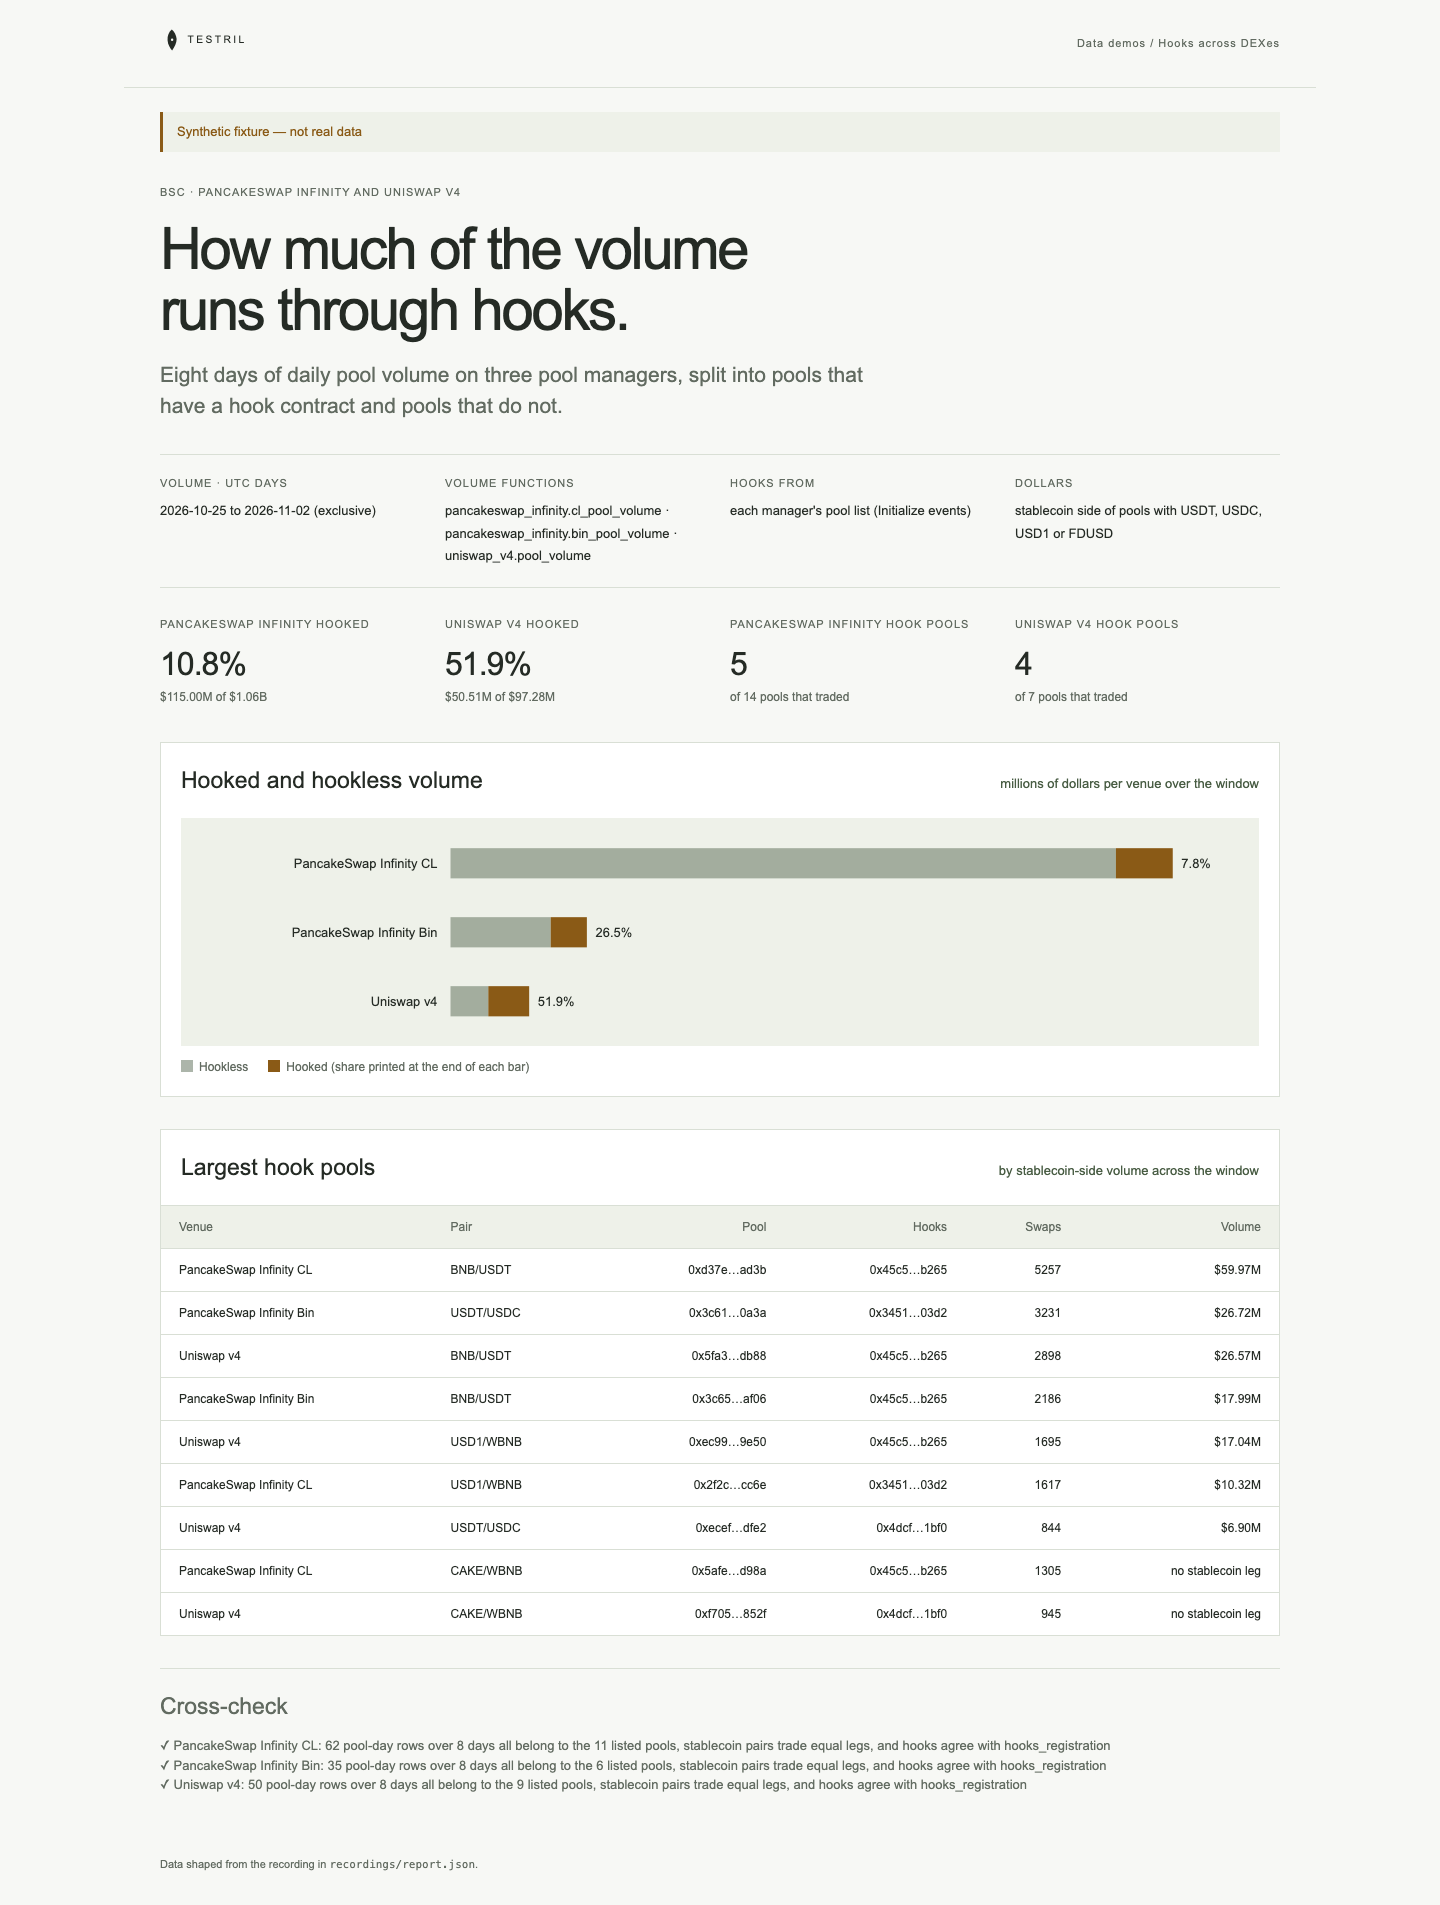
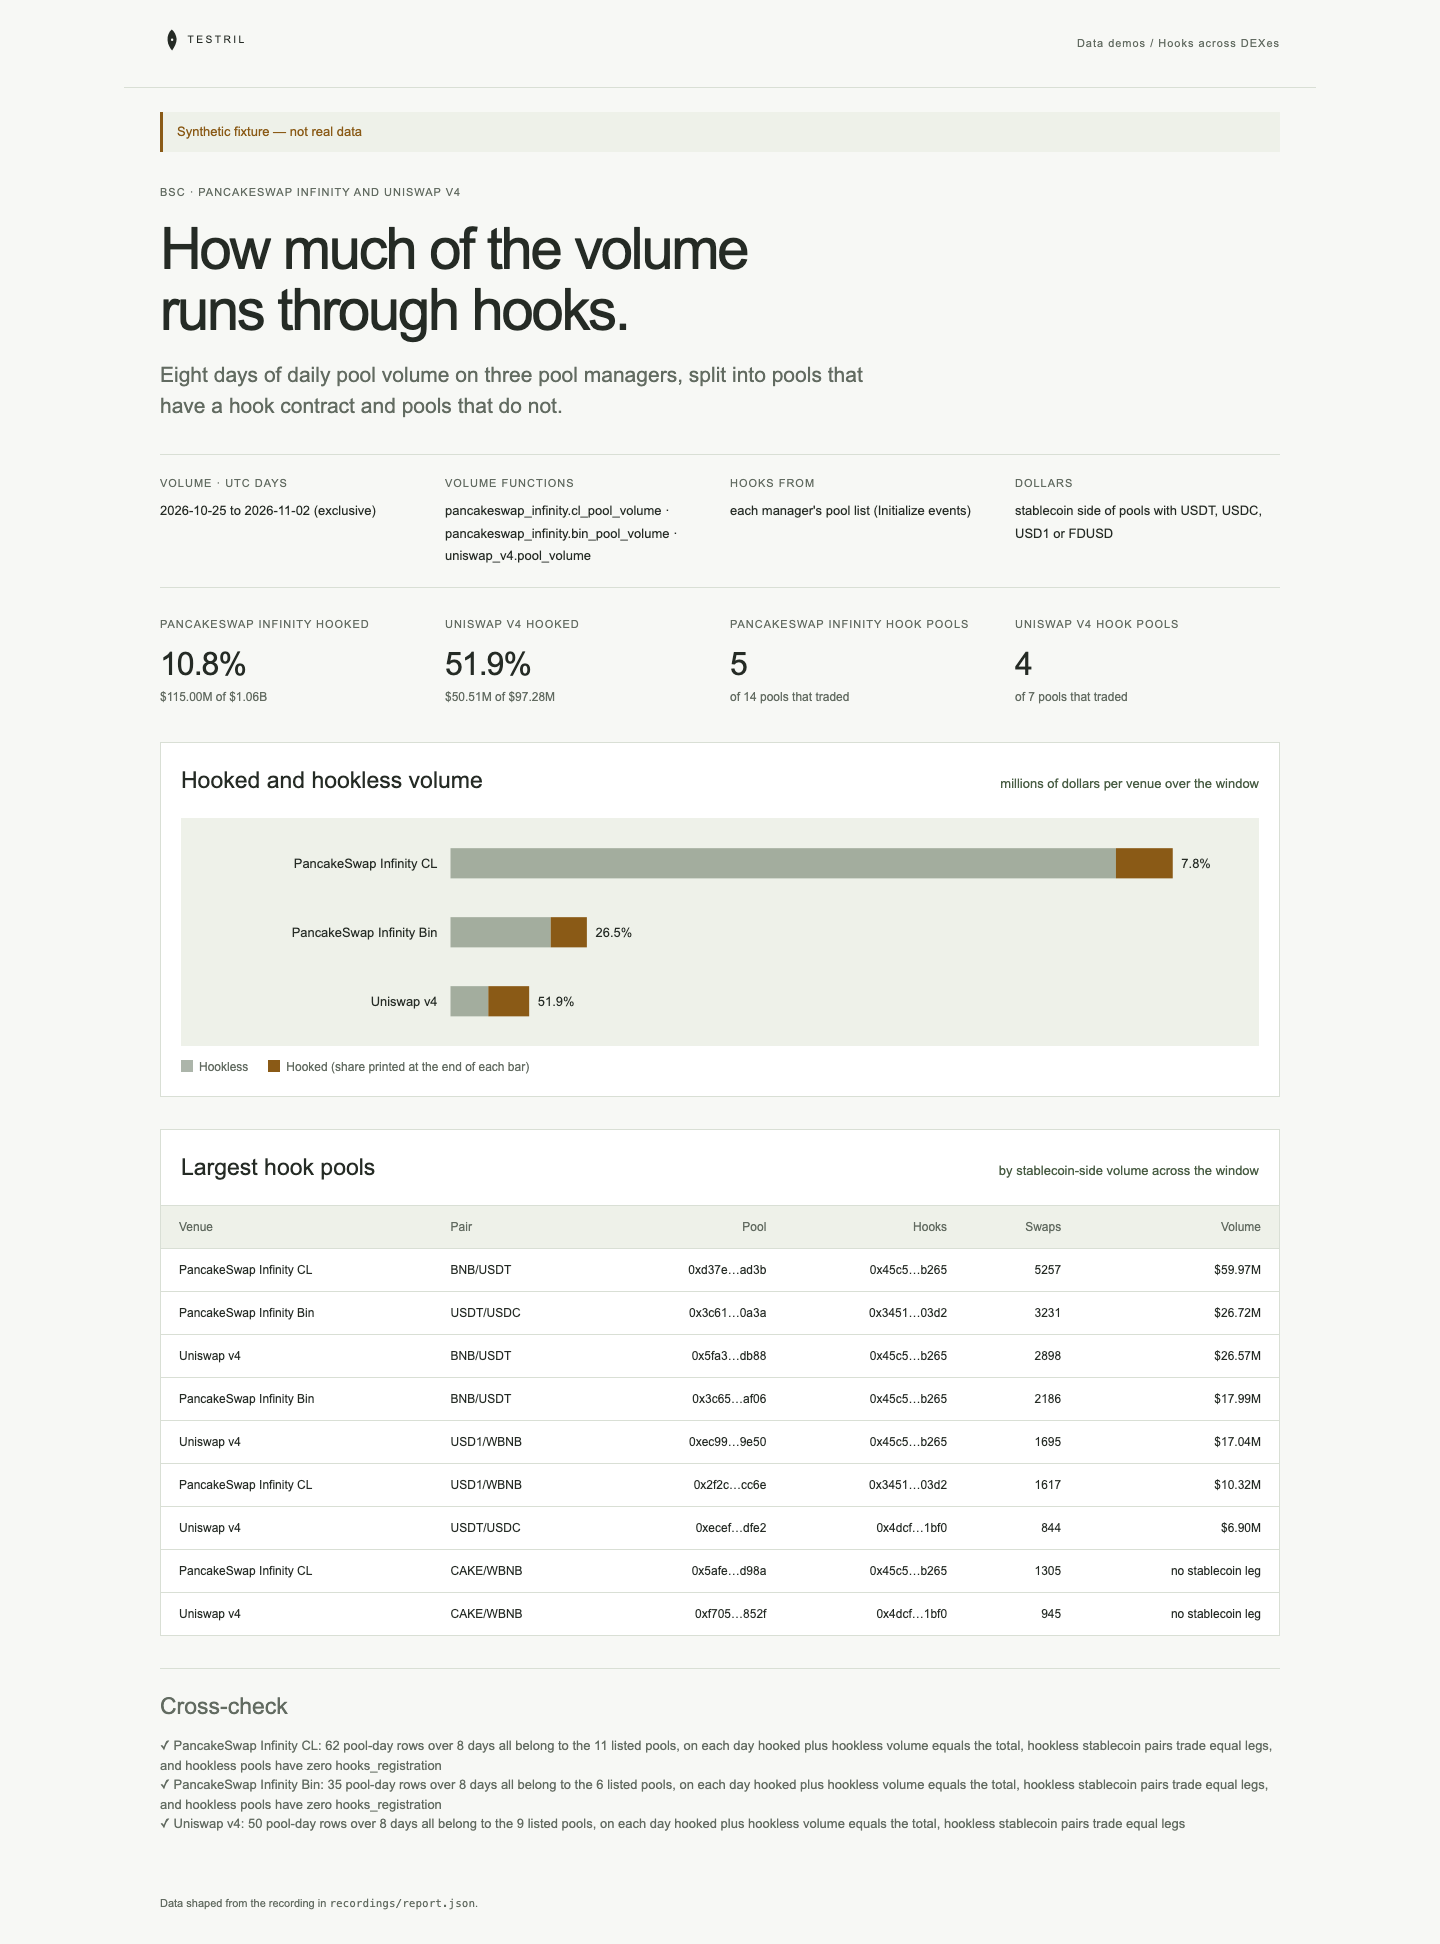
Verify per-day hooked and hookless partition and keep failed checks on the page

diff --git a/demos/hooks-across-dexes/public/app.js b/demos/hooks-across-dexes/public/app.js
@@ -100,9 +100,21 @@ function legend() {
   return node;
 }
 
+function renderChecks(checks) {
+  document
+    .querySelector("#checks")
+    .replaceChildren(
+      ...(checks.ok
+        ? checks.passed.map((text) => element("li", `✓ ${text}`))
+        : [element("li", `✗ ${checks.error}`, "failed")]),
+    );
+}
+
 function render(report) {
   const view = report.view;
   banner(report);
+  renderChecks(report.checks);
+  if (!view) return;
   document.querySelector("#day-window").textContent =
     `${view.dayWindow.from_day} to ${view.dayWindow.to_day} (exclusive)`;
   document
@@ -110,14 +122,14 @@ function render(report) {
     .replaceChildren(
       ...view.dexes.map((dex) =>
         metric(
-          `${dex.dex.toUpperCase()} HOOKED`,
+          `${dex.dex} hooked`,
           dex.hookedShare,
           `${dex.hooked} of ${dex.total}`,
         ),
       ),
       ...view.dexes.map((dex) =>
         metric(
-          `${dex.dex.toUpperCase()} HOOK POOLS`,
+          `${dex.dex} hook pools`,
           String(dex.activeHookedPools),
           `of ${dex.activePools} pools that traded`,
         ),
@@ -140,13 +152,6 @@ function render(report) {
       return row;
     }),
   );
-  document
-    .querySelector("#checks")
-    .replaceChildren(
-      ...(report.checks.ok
-        ? report.checks.passed.map((text) => element("li", `✓ ${text}`))
-        : [element("li", `✗ ${report.checks.error}`, "failed")]),
-    );
 }
 
 const response = await fetch("/api/report");

diff --git a/demos/hooks-across-dexes/public/style.css b/demos/hooks-across-dexes/public/style.css
@@ -86,6 +86,7 @@ h2 {
 }
 .label {
   display: block;
+  text-transform: uppercase;
   margin-bottom: 8px;
 }
 .metrics {

diff --git a/demos/hooks-across-dexes/README.md b/demos/hooks-across-dexes/README.md
@@ -5,7 +5,8 @@ PancakeSwap Infinity CL, PancakeSwap Infinity Bin and Uniswap v4. Each pool is
 read from its manager's pool list, called hooked when its `hooks` address is
 not the zero address, and its volume is split into hooked and hookless. The page
 proves its numbers: every traded pool must be in its pool list, have at most
-one row per day, and hooked plus hookless must equal the total on each day.
+one row per day, and on each day hooked plus hookless must equal the total,
+with every pool counted in exactly one class.
 
 **The shipped recording is synthetic.** `recordings/report.json` is generated
 by `test/fixture.mjs` and the page says so in its banner. Record real data with
@@ -44,10 +45,18 @@ npm run format:check
 `npm test` checks the cross-check passes on the fixture and fails when a traded
 pool is missing from the pool list, a pool is listed twice, a pool has two rows
 for one day, a row is outside the window, the legs of a stablecoin pair differ
-by more than 1%, or a pool's hooks contradict its hooks_registration, and that the report splits hooked
+by more than 1%, a hookless pool has a non-zero hooks_registration, a pool counts
+as both or neither of hooked and hookless, and that a failed cross-check still
+renders on the page, and that the report splits hooked
 from hookless volume on the stablecoin side of each pool. `npm run test:browser`
 writes `docs/screenshot-desktop.png`. `npm run fixture` regenerates the
 synthetic recording.
+
+Assumptions to verify on the first real recording: the 1% leg check applies
+only to hookless stablecoin pairs (a hooked pool's swap delta or dynamic fee
+can legitimately widen the gap), and for hooked pools `hooks_registration` is
+not checked because a hook may register a zero bitmap. Uniswap v4's pool list
+has no `hooks_registration`, so that check runs only on PancakeSwap Infinity.
 
 ## How dollars are counted
 
